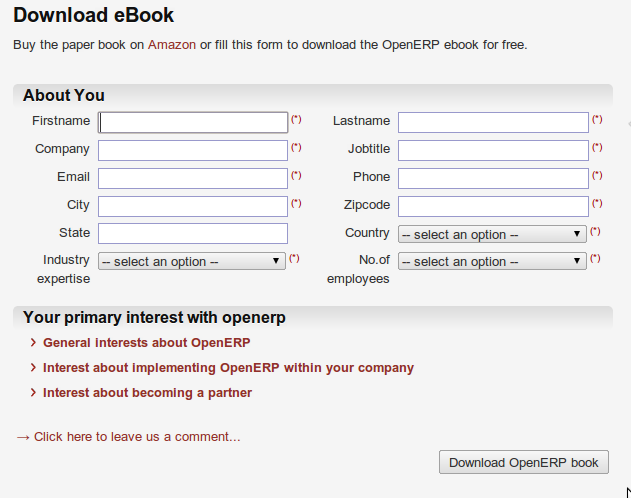
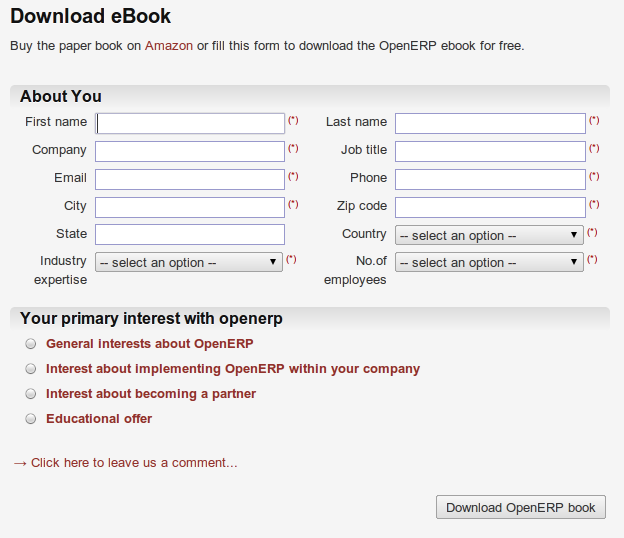
[IMP] replace contact form

diff --git a/2/9_Marketing/index.rst b/2/9_Marketing/index.rst
@@ -370,7 +370,7 @@ Let us show you an example of how this can be achieved. The figure below shows a
 .. _fig-crmconfo:
 
 .. figure:: images/crm_contact_form.png
-   :scale: 80
+   :scale: 100
    :align: center
 
    *Contact Form on your Website*
